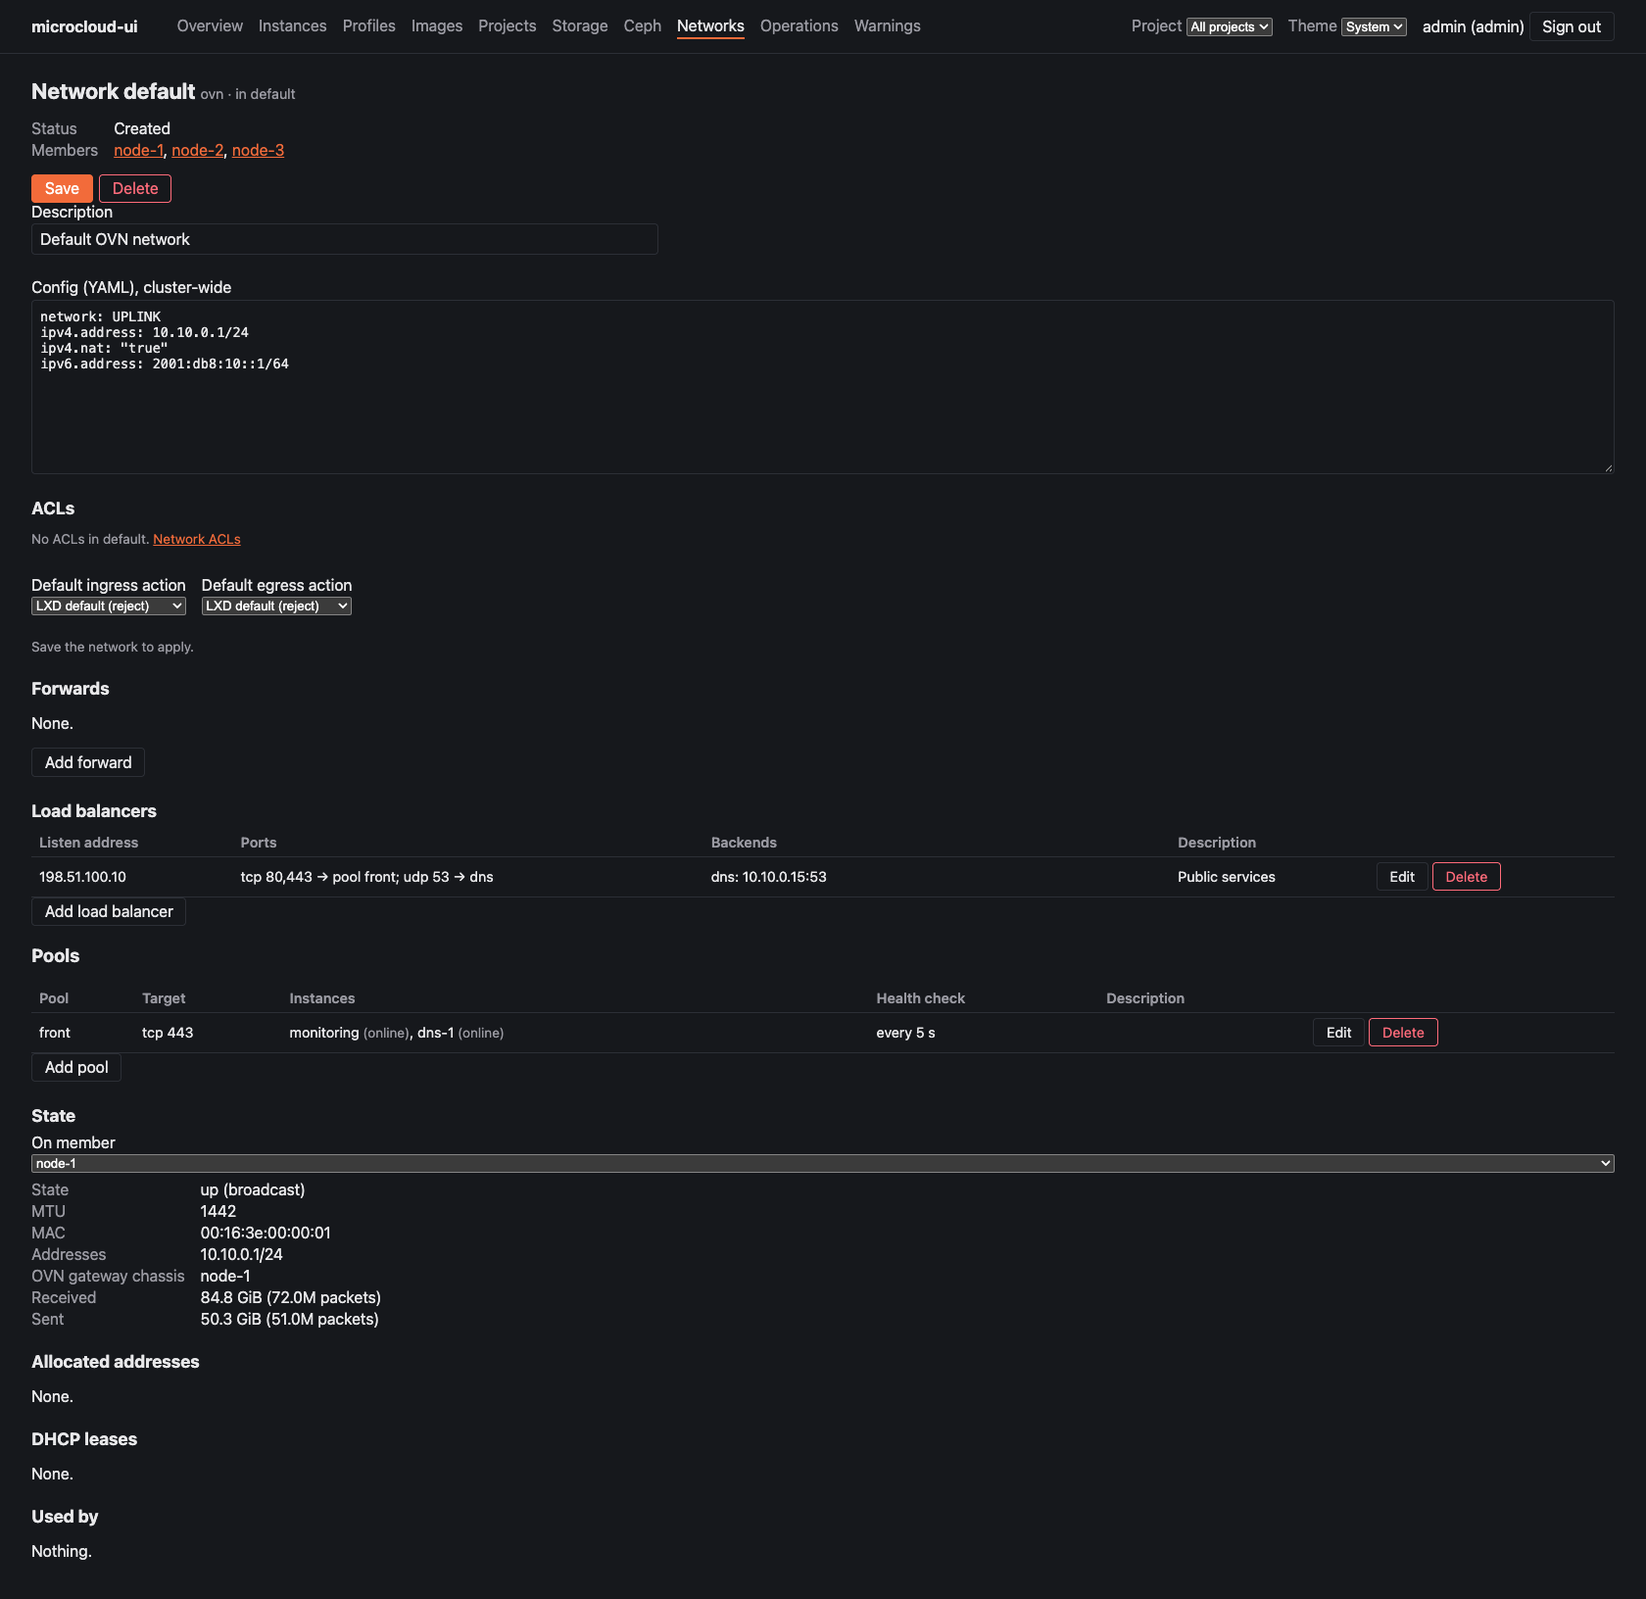
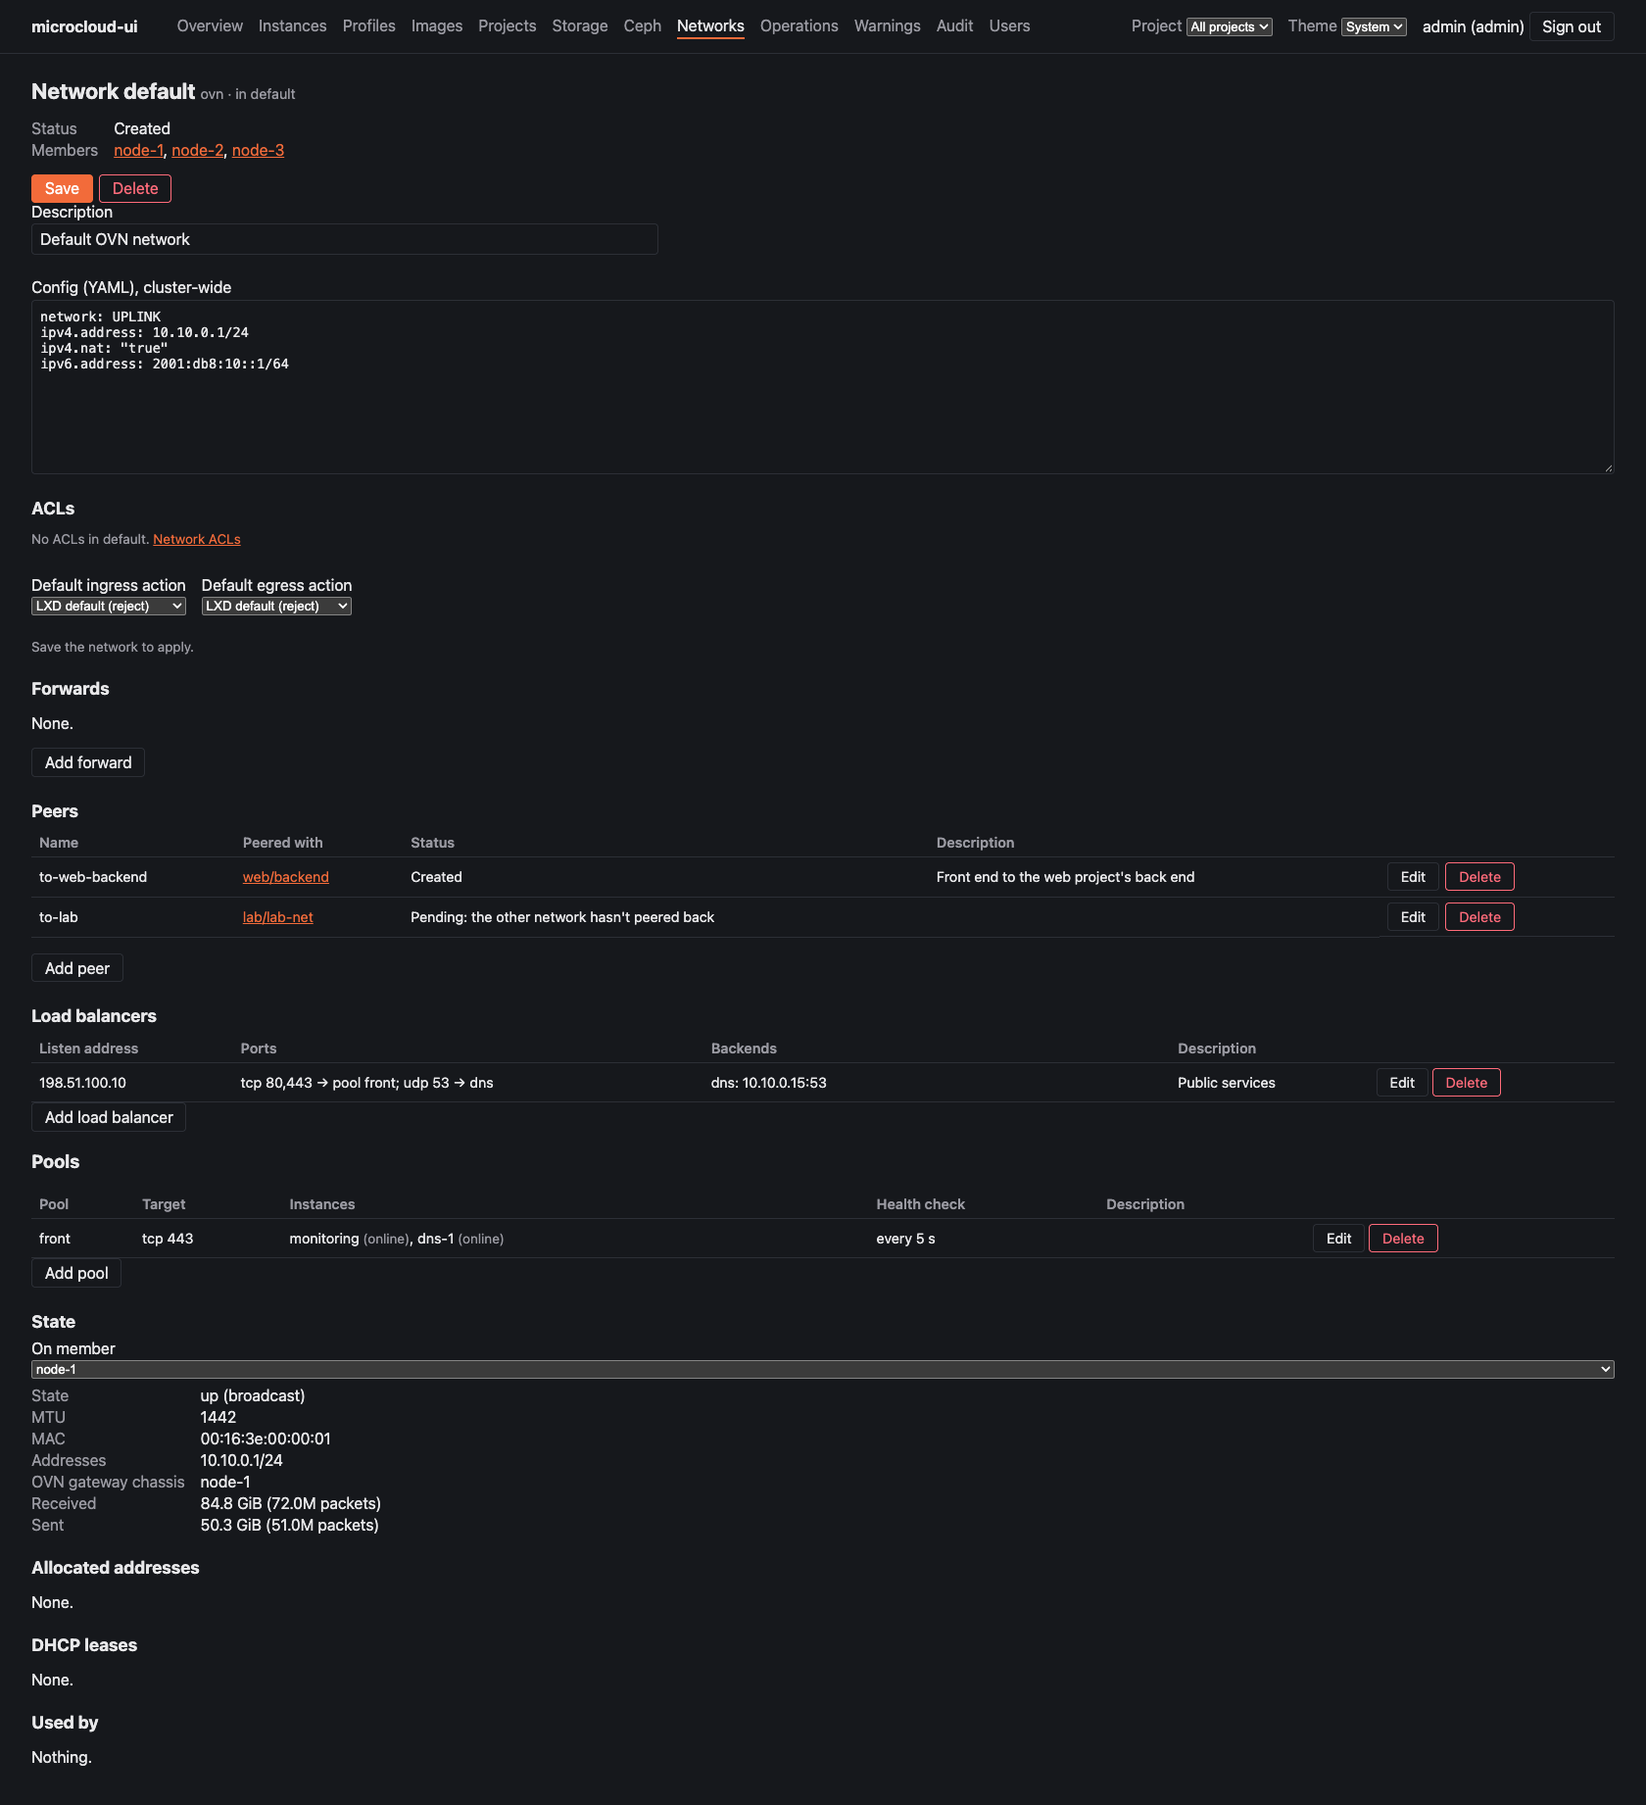
User guide docs/WORKFLOWS.md: backups and restore, installing a VM from an ISO, moving instances (members, Ceph <-> local, projects), volume backups, copies and moves, OVN peers and restrictions, with new demo screenshots; linked from the README. From now on every user-visible feature gets user docs

diff --git a/frontend/screenshots/demo.ts b/frontend/screenshots/demo.ts
@@ -21,6 +21,7 @@ import type {
   MemberLive,
   Network,
   NetworkDetail,
+  NetworkPeer,
   NetworkState,
   NetworkTraffic,
   OvnNetwork,
@@ -40,6 +41,7 @@ import type {
   TopResult,
   User,
   Volume,
+  VolumeDetail,
 } from "../src/api.ts";
 
 export const NOW = Date.UTC(2026, 10, 11, 14, 0, 0) / 1000;
@@ -222,6 +224,17 @@ export const VOLUMES: Volume[] = [
   { name: "ubuntu-26.04-live-server-amd64", pool: "remote", type: "custom", content_type: "iso", description: "", config: { size: "3268411392" }, location: "none", used_by: [] },
   { name: "scratch", pool: "local", type: "custom", content_type: "block", description: "Build cache", config: { size: "20GiB" }, location: "node-2", used_by: [] },
 ];
+
+/** The OVN network's peers (Phase 10a): one working both ways, one waiting for the other side. */
+export const PEERS: NetworkPeer[] = [
+  { name: "to-web-backend", description: "Front end to the web project's back end", target_project: "web", target_network: "backend", status: "Created", config: {}, used_by: [] },
+  { name: "to-lab", description: "", target_project: "lab", target_network: "lab-net", status: "Pending", config: {}, used_by: [] },
+];
+
+export function volumeDetail(pool: string, name: string): VolumeDetail | undefined {
+  const v = VOLUMES.find((x) => x.pool === pool && x.name === name);
+  return v && { ...v, project: "default", state: { usage: { used: 9.6 * GIB, total: 40 * GIB } } };
+}
 
 export const RESOURCES: Resources = {
   cpu: { total: 16, architecture: "x86_64", sockets: [{ name: "AMD EPYC 4344P 8-Core Processor", vendor: "AuthenticAMD" }] },
@@ -839,6 +852,7 @@ export function answer(method: string, url: URL): unknown {
     "/api/networks/default/default/leases": [],
     "/api/networks/default/default/forwards": [],
     "/api/networks/default/default/load-balancers": LOAD_BALANCERS,
+    "/api/networks/default/default/peers": PEERS,
     "/api/networks/default/default/load-balancer-pools": LB_POOLS,
     "/api/networks/default/default/load-balancer-pools/front/state": POOL_STATE,
   };
@@ -856,6 +870,11 @@ export function answer(method: string, url: URL): unknown {
   if (m) return RESOURCES;
   m = /^\/api\/instances\/([^/]+)\/([^/]+)\/backups$/.exec(p);
   if (m) return instanceFull(decodeURIComponent(m[1]), decodeURIComponent(m[2])) ? BACKUPS : undefined;
+  m = /^\/api\/volumes\/default\/([^/]+)\/([^/]+)(\/snapshots|\/backups)?$/.exec(p);
+  if (m) {
+    const v = volumeDetail(decodeURIComponent(m[1]), decodeURIComponent(m[2]));
+    return v && (m[3] === "/snapshots" ? [] : m[3] === "/backups" ? BACKUPS.slice(0, 1) : v);
+  }
   m = /^\/api\/projects\/([^/]+)$/.exec(p);
   if (m) return PROJECTS.find((x) => x.name === decodeURIComponent(m![1]) && mine(x.name));
   m = /^\/api\/instances\/([^/]+)\/([^/]+)$/.exec(p);

diff --git a/frontend/screenshots/shoot.ts b/frontend/screenshots/shoot.ts
@@ -44,11 +44,59 @@ export const PAGES: {
   // LXD 6 (MicroCloud 3.4) only
   { file: "placement-groups.png", path: "/placement-groups", wait: "infra-spread" },
   { file: "load-balancers.png", path: "/networks/default/default", wait: "198.51.100.10", full: true },
-  // users and project access (D81)
-  // Phase 7: backups, ISOs, restrictions
+  // workflows (docs/WORKFLOWS.md): backups, ISOs, moves, copies, peers, restrictions
   { file: "backups.png", path: "/instances/web/db-primary?tab=backups", wait: "weekly-2026-11-09" },
+  {
+    file: "import-backup.png",
+    path: "/instances",
+    wait: "db-primary",
+    prepare: async (p) => {
+      await p.getByRole("button", { name: "Import backup" }).click();
+      await p.getByRole("dialog").getByLabel(/^Name/).fill("db-restored");
+    },
+  },
   { file: "volumes.png", path: "/storage/volumes", wait: "ubuntu-26.04-live-server-amd64" },
+  {
+    file: "create-vm-iso.png",
+    path: "/instances/new",
+    wait: "noble",
+    prepare: async (p) => {
+      await p.getByLabel("Name", { exact: true }).fill("installer-test");
+      await p.getByLabel("VM").check();
+      await p.getByLabel("Boot from an ISO").selectOption({ label: "ubuntu-26.04-live-server-amd64 (remote)" });
+      await p.getByLabel(/No image: an empty/).check();
+    },
+  },
+  {
+    file: "move-to-local.png",
+    path: "/instances/lab/k8s-test",
+    wait: "k8s-test",
+    prepare: async (p) => {
+      await p.getByRole("button", { name: "Move", exact: true }).click();
+      const d = p.getByRole("dialog");
+      await d.getByLabel("To member").selectOption("node-1");
+      await d.getByLabel("To storage pool").selectOption("local");
+    },
+  },
+  {
+    file: "volume-copy.png",
+    path: "/storage/volumes/default/remote/grafana-data",
+    wait: "Used by",
+    prepare: async (p) => {
+      await p.getByRole("button", { name: "Copy…" }).click();
+      await p.getByRole("dialog").getByLabel("Project").selectOption("lab");
+    },
+  },
+  {
+    file: "peers.png",
+    path: "/networks/default/default",
+    wait: "to-web-backend",
+    prepare: async (p) => {
+      await p.getByRole("region", { name: "Peers" }).evaluate((el) => el.scrollIntoView({ block: "start" }));
+    },
+  },
   { file: "restrictions.png", path: "/projects/web", wait: "Restrictions", full: true },
+  // users and project access (D81)
   { file: "users.png", path: "/users", wait: "ops-oncall" },
   { file: "audit.png", path: "/audit", wait: "before-upgrade" },
   // what a project user sees: ops-oncall, operator in web and lab

diff --git a/frontend/screenshots/demo.test.ts b/frontend/screenshots/demo.test.ts
@@ -73,6 +73,10 @@ describe("demo cluster", () => {
       "/api/instances/web/db-primary/backups",
       "/api/projects/web",
       "/api/volumes?project=default",
+      "/api/networks/default/default/peers",
+      "/api/volumes/default/remote/grafana-data",
+      "/api/volumes/default/remote/grafana-data/snapshots",
+      "/api/volumes/default/remote/grafana-data/backups",
     ]) {
       expect(get(path), path).toBeDefined();
     }
@@ -80,6 +84,7 @@ describe("demo cluster", () => {
     expect(get("/api/instances/web/nope")).toBeUndefined();
     expect(get("/api/instances/web/nope/backups")).toBeUndefined();
     expect(get("/api/projects/nope")).toBeUndefined();
+    expect(get("/api/volumes/default/remote/nope")).toBeUndefined();
     expect(answer("POST", new URL("http://demo/api/instances"))).toEqual({});
     const all = JSON.stringify([
       HOSTS_VIEW,

diff --git a/docs/WORKFLOWS.md b/docs/WORKFLOWS.md
@@ -1,0 +1,139 @@
+# Workflows
+
+How to do the common jobs in microcloud-ui: backups, installing from an ISO, moving
+instances (between members, between Ceph and local storage, between projects), copying
+and moving volumes, and peering OVN networks.
+
+Each section says who may do it (see [`USERS.md`](USERS.md) for the roles) and what LXD
+itself insists on. Everything here was checked on LXD 6.10 (MicroCloud 3.4); the
+screenshots come from the invented demo cluster.
+
+## Back up and restore an instance
+
+**Who:** a project operator or above makes, downloads, renames and deletes backups; a
+project admin imports them.
+
+![An instance's backups](screenshots/backups.png)
+
+1. Open the instance and its **Backups** tab.
+2. Under **Make a backup**, choose:
+   - **Name**: a dated one is filled in.
+   - **Expires**: optional. LXD deletes the backup then.
+   - **Compression**: the server's default unless you pick one. zstd is the fastest.
+   - **Leave out snapshots**: only the instance as it is now.
+   - **Optimized storage**: faster, but restores only onto the same storage driver.
+3. **Download** saves the tarball, named after the instance, the backup and its
+   compression (`db-primary-weekly.tar.zst`). Keep a copy off the cluster: LXD keeps
+   backups on the member running the instance, under its `storage.backups_volume`, by
+   default its root disk.
+
+**Restore** from **Instances → Import backup**: choose the file, the project, optionally a
+new name and a pool. The upload streams to LXD, with its progress in the action's
+message, so keep the tab open until it finishes.
+
+![Importing a backup](screenshots/import-backup.png)
+
+**What LXD insists on:**
+- **Restricted projects refuse backups** until `restricted.backups=allow` is set (project
+  page → **Restrictions** → Backups). Snapshots likewise need `restricted.snapshots=allow`.
+- **Importing into a project with limits or restrictions is refused.** LXD counts the
+  backup's own `volatile.*` keys as low-level options. The dialog warns about this. The
+  way round: import into an unrestricted project without `limits.*`, then
+  [move the instance](#move-an-instance) across, stopped. LXD checks it against the
+  target's restrictions there, so a privileged instance is still refused.
+
+## Install a VM from an ISO
+
+**Who:** a project admin.
+
+1. **Storage → Volumes → Upload ISO**: choose the ISO file and a pool. The volume is named
+   after the file unless you give a name, and lists with content type `iso`.
+
+   ![Volumes, with an ISO](screenshots/volumes.png)
+
+2. **Create instance**, choose **VM**, then under **Image**:
+   - **Boot from an ISO**: the ISO volume.
+   - **No image**: an empty root disk to install onto. Set **Root disk size** under
+     Resources.
+
+   ![Creating a VM from an ISO](screenshots/create-vm-iso.png)
+
+3. Start the VM and open its **Console** tab (graphical) to run the installer.
+4. Afterwards, detach the ISO from the volume's page (**Used by → Detach**), or keep it.
+
+**To an existing VM:** open the ISO volume and choose **Attach…**. Only VMs are offered.
+**Boot from it first** sets its `boot.priority`. The VM sees it after a restart.
+
+## Move an instance
+
+**Who:** a project admin. To another project, an admin of both projects.
+
+Open the instance and choose **Move**:
+
+![Moving a VM to another member's local pool](screenshots/move-to-local.png)
+
+- **To member**: on Ceph this only relinks the instance, so it's quick. On a local pool
+  LXD copies it across.
+- **To storage pool**: between Ceph and a local pool (zfs, lvm, btrfs, dir), either way.
+  The instance must be stopped; the dialog won't send it otherwise.
+- **Member and pool together**, for example "Ceph to node-1's local pool": the app makes
+  two moves in the order that copies the data once. From Ceph it moves to the member
+  first and then copies to its local pool. From a local pool it copies to the new pool
+  first and then moves. (LXD, given both at once, would move it to the member and ignore
+  the pool.)
+- **To project**: the instance must be stopped. LXD applies the target project's limits
+  and restrictions. Its snapshots go with it only if the target allows snapshots;
+  otherwise tick **Leave its snapshots behind**, which deletes them with the original.
+  Its volumes stay where they are, and its profiles and networks must exist there too.
+- **Live migration** (VMs on Ceph, between members) keeps the VM running.
+
+The instance keeps its data and snapshots across members and pools (checked with
+containers on a two-member cluster with Ceph and local ZFS pools). VMs on local pools
+weren't tested.
+
+## Back up, copy and move volumes
+
+**Who:** a project operator or above for backups; a project admin to copy, move or
+import. To or from another project, an admin of both.
+
+Open the volume (**Storage → Volumes**):
+- **Backups**: as for instances. Restore from **Volumes → Import backup**. Volume imports
+  aren't affected by the restricted-project refusal above.
+- **Copy…**: to any pool or project, under a new name. On a local pool you can choose
+  the member. **Leave out its snapshots** copies the volume only.
+- **Move…**: to another pool or project, renaming it on the way if you like. A volume in
+  use moves too, even with its instance running: LXD points the instance's device at its
+  new place.
+
+![Copying a volume](screenshots/volume-copy.png)
+
+## Peer OVN networks
+
+**Who:** a project admin of the network's project. The other network's project must be
+one you can see.
+
+Peered OVN networks on the same uplink route to each other directly. Open an OVN network
+and use **Peers → Add peer**:
+
+![An OVN network's peers](screenshots/peers.png)
+
+- Choose the other project and network, and a name (`to-<network>` if empty).
+- A peer is **Pending** until the other network peers back. Tick **Also peer back** (shown
+  when you can manage the other project) to do both sides at once.
+- **Delete** stops the routing. The other side's peer stays until it's deleted there too.
+
+## Restrict a project
+
+**Who:** a cluster admin.
+
+A project's page has a **Restrictions** form for LXD's `restricted.*` keys, with what
+each choice means and a warning on those that reach the host. See
+[`USERS.md`](USERS.md#preparing-a-project).
+
+![A project's restrictions](screenshots/restrictions.png)
+
+## Not available on MicroCloud
+
+- **ACL logs:** LXD reads them from MicroOVN's chassis journal, which has no ACL entries
+  on MicroCloud, so there's no log viewer.
+- **SR-IOV networks:** not built yet (no hardware to test on).

diff --git a/CLAUDE.md b/CLAUDE.md
@@ -15,6 +15,7 @@ MicroOVN). Backend FastAPI (Python ≥3.12), frontend React 19 + TS + Vite + uPl
    |---|---|
    | Config | `docs/CONFIGURATION.md` |
    | Users, roles and project access | `docs/USERS.md` |
+   | Backups, ISOs, moves, volume copies, peers (how-tos) | `docs/WORKFLOWS.md` |
    | LXD certificates | `docs/LXD-CREDENTIALS.md` |
    | Host metrics | `docs/HOST-METRICS.md` |
    | Ceph metrics | `docs/CEPH-METRICS.md` |
@@ -38,6 +39,14 @@ MicroOVN). Backend FastAPI (Python ≥3.12), frontend React 19 + TS + Vite + uPl
   pytest and vitest.
 - **The design log:** add or amend a `D<n>` row in `agents.md` for any design decision, and
   update its Status section, in the same commit. Keep the docs in sync with the code.
+- **User docs for every feature (owner, 2026-11-13):** anything a user can see or do gets
+  written up for users before the step or phase counts as done, not only in `agents.md`,
+  `docs/PLAN.md` or LIVE-TESTS:
+  - how to use it, in `docs/WORKFLOWS.md` (or the area's doc, e.g. `docs/USERS.md`), with
+    its limits and LXD's own quirks;
+  - a demo screenshot of its page or dialog (`make screenshots`; add the shot to
+    `frontend/screenshots/shoot.ts` and the data to `demo.ts`);
+  - a line in the README's feature list and links to the guide.
 - **No real IPs, hostnames or screenshots of the real cluster** in new docs, fixtures or
   screenshots. Use 192.0.2.x, 198.51.100.x and 2001:db8::. Screenshots come only from the
   invented demo cluster (`make screenshots`, D59). Recorded fixtures are scrubbed (D26).

diff --git a/README.md b/README.md
@@ -18,7 +18,9 @@ container image) is too. Checked live on a three-member MicroCloud 3.4 cluster; 
   audit log (Phase 6, [`docs/USERS.md`](docs/USERS.md)).
 - **Backups, moves and ISOs:** instance and volume backups (make, download, import), moving
   instances between projects, ISO upload to install VMs from, and a project's restrictions
-  as a form (Phase 7); OVN network peers and copying or moving volumes (Phase 10a).
+  as a form (Phase 7); OVN network peers, copying or moving volumes (Phase 10a), and
+  moving instances between Ceph and local storage. How-tos with screenshots:
+  [`docs/WORKFLOWS.md`](docs/WORKFLOWS.md).
 
 Next in the plan: a metric store evaluation, alerts and export (Phase 8). Owner live
 checks: [`docs/LIVE-TESTS.md`](docs/LIVE-TESTS.md). See
@@ -75,7 +77,12 @@ More: [instances](docs/screenshots/instances.png) ·
 [users and project grants](docs/screenshots/users.png) ·
 [audit log](docs/screenshots/audit.png) ·
 [backups](docs/screenshots/backups.png) ·
+[importing one](docs/screenshots/import-backup.png) ·
 [volumes with an ISO](docs/screenshots/volumes.png) ·
+[a VM from an ISO](docs/screenshots/create-vm-iso.png) ·
+[moving to a local pool](docs/screenshots/move-to-local.png) ·
+[copying a volume](docs/screenshots/volume-copy.png) ·
+[OVN peers](docs/screenshots/peers.png) ·
 [project restrictions](docs/screenshots/restrictions.png) ·
 a project user's [Overview](docs/screenshots/project-user.png) and
 [instance page](docs/screenshots/project-user-instance.png) (an operator: only their projects,

diff --git a/agents.md b/agents.md
@@ -248,6 +248,12 @@ Statuses: *Proposed* → *Accepted* once the owner confirms; *Superseded by Dn* 
   and the boot.mode fix. A first tag had to be deleted (the release commit failed a flaky test and
   the script tagged anyway; the version check stopped the run, nothing was published). `main` is
   now 0.1.5.dev0.
+- **User guide 2026-11-13:** `docs/WORKFLOWS.md` (backups and restore, ISO installs,
+  moving instances incl. Ceph <-> local and between projects, volume backups/copy/move,
+  OVN peers, restrictions), with new demo shots `import-backup`, `create-vm-iso`,
+  `move-to-local`, `volume-copy`, `peers` (`load-balancers` retaken: the page now has
+  peers). Owner's rule from now on: every user-visible feature gets user docs and a demo
+  screenshot before it counts as done (CLAUDE.md).
 - **0.3.1 released 2026-11-13** (run 43505336327): Ceph <-> local storage moves (D85).
   `main` is now 0.3.2.dev0.
 - **Ceph <-> local storage moves, 2026-11-13 (D85):** proven on a throwaway cluster (VMs
